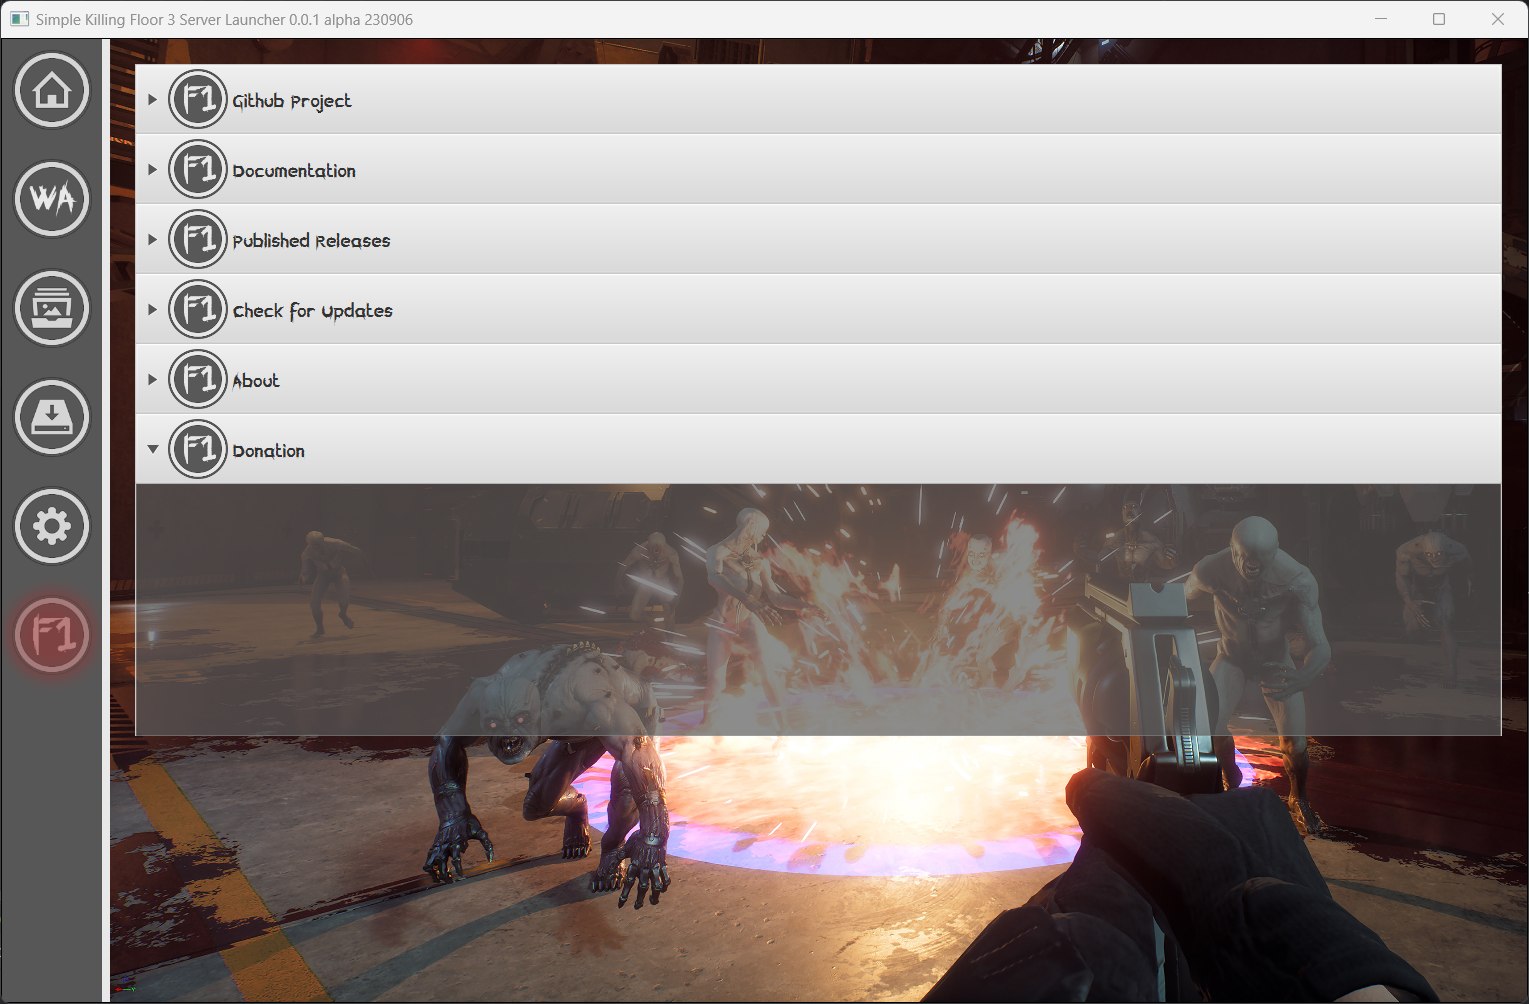
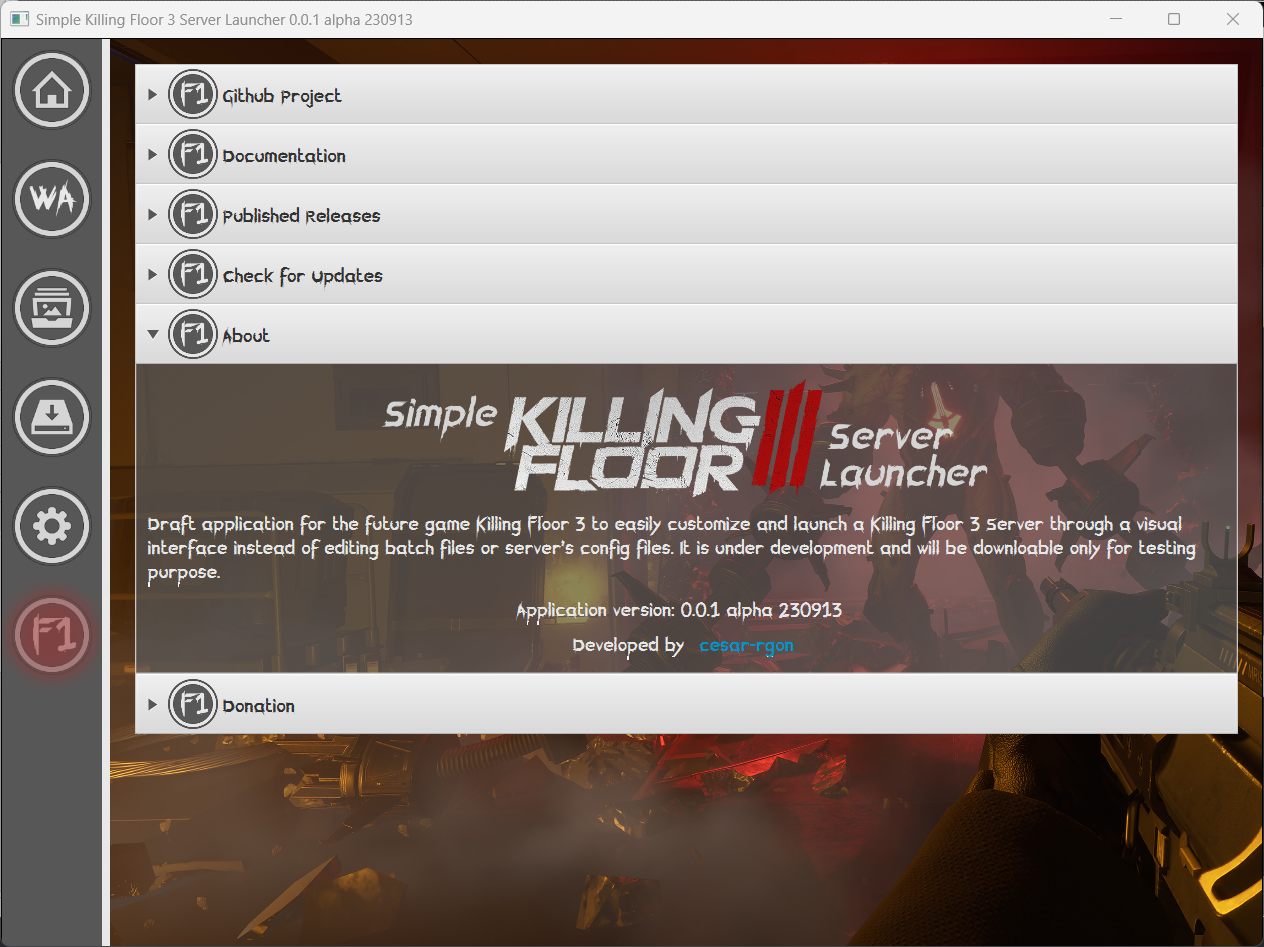
Developing GUI's behaviors

diff --git a/src/main/java/stories/help/HelpController.java b/src/main/java/stories/help/HelpController.java
@@ -1,19 +1,26 @@
 package stories.help;
 
+import javafx.event.ActionEvent;
+import javafx.event.EventHandler;
 import javafx.fxml.FXML;
 import javafx.fxml.Initializable;
 import javafx.scene.control.Accordion;
+import javafx.scene.control.Hyperlink;
+import javafx.scene.control.Label;
 import javafx.scene.control.TitledPane;
 import javafx.scene.layout.VBox;
+import javafx.scene.web.WebEngine;
+import javafx.scene.web.WebView;
 import org.apache.logging.log4j.LogManager;
 import org.apache.logging.log4j.Logger;
 import pojos.Session;
 import services.PropertyService;
 import services.PropertyServiceImpl;
-import start.MainApplication;
-import stories.install.InstallController;
 import utils.Utils;
 
+import java.awt.*;
+import java.lang.reflect.Field;
+import java.net.URI;
 import java.net.URL;
 import java.util.ResourceBundle;
 
@@ -22,20 +29,55 @@ public class HelpController implements Initializable {
     private static final Logger logger = LogManager.getLogger(HelpController.class);
 
     @FXML private Accordion accordion;
-    @FXML private TitledPane steam;
+    @FXML private TitledPane github;
     @FXML private VBox helpVbox;
+    @FXML private WebView githubWebPage;
+    @FXML private WebView documentationWebPage;
+    @FXML private WebView releasesWebPage;
+    @FXML private WebView donationWebPage;
+    @FXML private Label versionLabel;
+    @FXML private Hyperlink aboutLink;
 
     @Override
     public void initialize(URL url, ResourceBundle resourceBundle) {
         try {
             Utils.setNodeBackground(helpVbox);
-            accordion.setExpandedPane(steam);
+            accordion.setExpandedPane(github);
 
             PropertyService propertyService = new PropertyServiceImpl();
             boolean playMusicOnStartup = Boolean.parseBoolean(propertyService.getProperty("properties/config.properties", "prop.config.playMusicOnStartup"));
             if (playMusicOnStartup && !Session.getInstance().getMusicPlayer().isAutoPlay()) {
                 Session.getInstance().getMusicPlayer().setAutoPlay(true);
             }
+            String applicationVersion = propertyService.getProperty("properties/config.properties", "prop.config.applicationVersion");
+            versionLabel.setText("Application version: " + applicationVersion);
+
+            WebEngine githubWebEngine = githubWebPage.getEngine();
+            WebEngine documentationWebEngine = documentationWebPage.getEngine();
+            WebEngine releasesWebEngine = releasesWebPage.getEngine();
+            WebEngine donationWebEngine = donationWebPage.getEngine();
+
+            putBlackBackgroundColor(githubWebEngine);
+            putBlackBackgroundColor(documentationWebEngine);
+            putBlackBackgroundColor(releasesWebEngine);
+            putBlackBackgroundColor(donationWebEngine);
+
+            githubWebEngine.load("https://github.com/cesar-rgon/simple-kf3-server-launcher");
+            documentationWebEngine.load("https://github.com/cesar-rgon/simple-kf3-server-launcher/blob/main/README.md");
+            releasesWebEngine.load("https://github.com/cesar-rgon/simple-kf3-server-launcher/releases");
+            donationWebEngine.load("https://www.paypal.com/paypalme/cesarrgon");
+
+            aboutLink.setOnAction(new EventHandler<ActionEvent>() {
+                @Override
+                public void handle(ActionEvent e) {
+                    try {
+                        Desktop.getDesktop().browse(new URI("https://github.com/cesar-rgon"));
+                    } catch (Exception ex) {
+                        logger.error(ex.getMessage(), ex);
+                    }
+                }
+            });
+
         } catch (Exception e) {
             logger.error(e.getMessage(), e);
             Utils.errorDialog(e.getMessage(), e);
@@ -45,5 +87,13 @@ public class HelpController implements Initializable {
     @FXML
     private void helpVboxOnMouseClicked() throws Exception {
         Utils.setNextNodeBackground(helpVbox);
+    }
+
+    private void putBlackBackgroundColor(WebEngine webEngine) throws Exception {
+        // Put black color for background of the browser's page
+        Field f = webEngine.getClass().getDeclaredField("page");
+        f.setAccessible(true);
+        com.sun.webkit.WebPage page = (com.sun.webkit.WebPage) f.get(webEngine);
+        page.setBackgroundColor((new java.awt.Color(0.0f, 0.0f, 0.0f, 1f)).getRGB());
     }
 }
